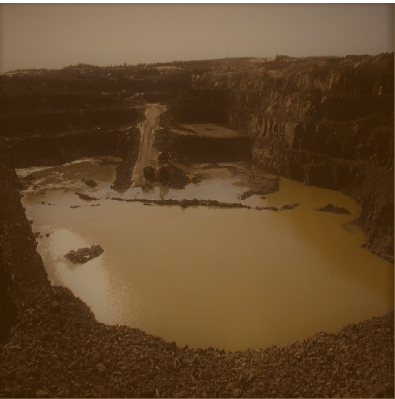
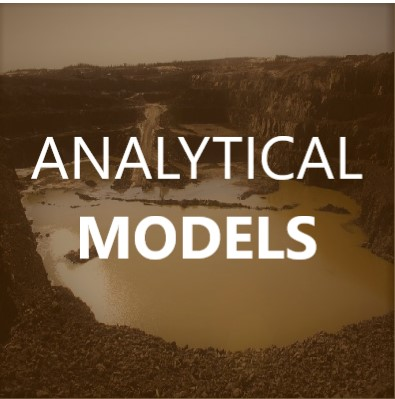
Added documentations

Changed region(s): [[0.0608, 0.3308, 0.9418, 0.4511], [0.1823, 0.5414, 0.8203, 0.6617]]

diff --git a/groundwater/templates/IndexDocumentation/complete_documentation.html b/groundwater/templates/IndexDocumentation/complete_documentation.html
@@ -1,0 +1,68 @@
+{% extends 'baseLayoutDocumentation.html' %}
+{% block title %}Complete Documentation{% endblock %}
+{% block content %}
+<h1 id="development-of-contaminated-plumes">Complete Documentation</h1>
+<p>This software has been created by using a micro-framework based on Python, called Flask and for the proper management of the dependencies in this project, a virtual environment has been created. The front end has been designed using HTML, CSS and bootstrap, the back-end is being handled by the open source management system, MySQL and the integration of the front-end and back-end is done through Python(3.6.8). The interactivity of all the components have been achieved by JavaScript.</p>
+<p><img src="static\complete_doc.png" alt="Framework for the site" style="zoom:80%;" /></p><br>
+<div>
+<strong>The structuring of the project is as follows :</strong>
+<ol>
+    <li>Virtual environment folder</li>
+    <li>Main folder (groundwater)</li>
+    <li>Three executable files</li>
+    <li>run.py(main file)</li>
+</ol>
+<p><img src="static\complete_doc_1.png" alt="Framework for the site" style="zoom:80%;"/></p><br>
+</div>
+<div>
+<strong>The main folder(groundwater) has a structuring as follows :</strong>
+<ol>
+    <li>Templates (consists of HTML codes)</li>
+    <li>Static (consists of CSS, images, JavaScript codes etc.)</li>
+    <li>Numerical model package(consists of code for the numerical model)</li>
+    <li>Other python files(consists of routes, initialisation and integration codes for the web platform)</li>
+</ol>
+<p><img src="static\complete_doc_2.png" alt="Framework for the site" style="zoom:80%;" /></p>
+</div>
+<div>
+<p>The structuring of the folders have been done according to the flask application structure. This ensures that all files are stored separately, according to their functions.</p>
+<strong>Some of the important libraries used in this project are :</strong>
+<ol>
+    <li>Pandas – for accessing the database in order to manipulate and read the data.</li>
+    <li>Plotly, Matplotlib, Seaborn – for generating graphs, these libraries are used for visualisation of the data.</li>
+    <li>SQLAlchemy – for abstraction of the database.</li>
+    <li>Sklearn, scikit-learn – for data mining and machine learning.</li>
+    <li>SciPy – scientific library for python.</li>
+    <li>FloPy – a package to create, run, and post-process MODFLOW based models.</li>
+</ol>
+</div>
+<p>Please note : The original database mentioned in this documentation refers to the database that is already existing in the software.</p>
+<p>For using this software, first make sure that you have an account. To make an account, you can click on register and enter the necessary details that are required. You can then login with your registered email id and password.</p>
+<p>There are 6 boxes that get displayed on the ‘Groundwater quality toolboxes’. The site database model, analytical model and empirical model are complete and can be used. The numerical model is still under development, however, it can be used. The optimization tool would be completed in the future.</p>
+
+<strong>You can begin by using the sites database model :</strong>
+<ol>
+    <li>Create your own database by either entering all parameters manually or upload a .csv file (you can download a sample csv file for checking the format to ensure that your file can be successfully uploaded).</li>
+    <li>You can also continue without creating your own database.</li>
+    <li>Navigate to ‘Analysis Visualisation’ and then, to ‘All plots’ to see the visualisations available.</li>
+    <li>Starting with the bar graph, you would be able to see that your database(in case you have created one) would be merged with the original database(already provided in the site).</li>
+    <li>Similarly, you can navigate to the boxplot, scatterplot and histogram to visualize different types of density curves and fits for important parameters like ‘Plume length’.</li>
+    <li>The statistical analysis page provides you with an overall description of the original database by giving the quartiles, counts, etc.</li>
+    <li>After using this toolbox, you can move onto the analytical and empirical models.</li>
+</ol>
+<strong>For the analytical and empirical model :</strong>
+<ol>
+    <li>Read the documentation for the equation that you want to use.</li>
+    <li>The single computation mode for each equation will require only one entry for each parameter.</li>
+    <li>The outputs for the single computation mode will be the ‘Maximum plume length’ and a graph displaying the plume lengths in the original database and one that is calculated with the user inputs.</li>
+    <li>The interactions for the graph can also be done via sliders, which have the most sensitive parameters.</li>
+    <li>By changing the values in the sliders, the displayed value for plume length as well as the entry on the graph changes, making it easier for the user to visualise their results.</li>
+    <li>The multiple computation mode for each equation allows multiple entries to be entered into the database. A separate table is created for each equation in the database.</li>
+    <li>For using this mode, the entries for the equation can be entered manually or can be uploaded via a .csv file.</li>
+    <li>For this purpose, please check the sample files for each parameter, to ensure that your file gets uploaded successfully.</li>
+    <li>After creating your own database, your entries are shown along with the original database on a graph, this helps to visualize and compare all entries.</li>
+    <li>If you wish to see only some of the entries from the original database, you can choose them from the dropdown.</li>
+</ol>
+<p>For the numerical model, enter all the values of the parameters to get a ‘Maximum plume length’ according to the values entered.</p>
+
+{% endblock %}

diff --git a/groundwater/templates/index.html b/groundwater/templates/index.html
@@ -129,19 +129,16 @@
                 <a href="{{ url_for('database')}}">
                     <div class="box">
                         <img src="/static/one.jpg" width="250"/>
-                        <div class="centered"><h2>SITE<br>DATABASE<br> and <br>MODEL INPUT</h2></div>
                     </div>
                 </a>
                 <a href="{{ url_for('analyticalModel')}}">
                     <div class="box">
                         <img src="/static/analyt.jpg" width="250"/>
-                        <div class="centered"><h2>ANALYTICAL<br>MODELS</h2></div>
                     </div>
                 </a>
                 <a href="{{ url_for('empiricalModel')}}">
                     <div class="box">
                         <img src="/static/semi.jpg" width="250"/>
-                        <div class="centered"><h2>EMPIRICAL<br>MODELS</h2></div>
                     </div>
                 </a>
             </div>
@@ -149,16 +146,13 @@
                 <a href="{{ url_for('numericalModel')}}">
                 <div class="box">
                     <img src="/static/num.jpg" width="250"/>
-                    <div class="centered"><h2>NUMERICAL<br>MODELS</h2></div>
                 </div>
                 </a>
                 <div class="box">
                     <img src="/static/two.jpg" width="250"/>
-                    <div class="centered"><h2>OPTIMIZATION<br>TOOL</h2></div>
                 </div>
                 <div class="box">
                     <img src="/static/three.jpg" width="250"/>
-                    <div class="centered"><h2>WATER<br> QUALITY <br>INDEX</h2></div>
                 </div>
             </div>
             <br><br>
@@ -195,7 +189,7 @@
                     <ol>
                         <li>Start with the Database Toolbox</li>
                         <li>Follow then to Analytical model Toolbox or Empirical model toolbox, and then</li>
-                        <li>Numerical model toolbox (not implemented yet).</li>
+                        <li>Numerical model toolbox (under development).</li>
                     </ol>
                     <p>The Decision Toolbox (not implemented yet) and the Other toolboxes do not require any work flow.
                         The User’s guide (not complete) will contain details on how to use the toolbox correctly with
@@ -205,8 +199,8 @@
                     <h2><a id="NOTE_16"></a>NOTE:</h2>
                     <p>The authors of this site and the organizations supporting the development are not in
                         any way responsible for the results obtained using the tools provide in the site.</p><br>
-                    <a href="#" class="tm-button tm-button-normal">User's guide </a>
-                    <a href="#" class="tm-button tm-button-normal">Complete Documentation</a>
+                    <a href="{{ url_for('user_guide') }}" class="tm-button-doc tm-button-normal">User's guide </a>
+                    <a href="{{ url_for('complete_documentation') }}" class="tm-button-doc tm-button-normal">Complete Documentation</a>
                 </div>
             </div>
 

diff --git a/groundwater/templates/IndexDocumentation/users_guide.html b/groundwater/templates/IndexDocumentation/users_guide.html
@@ -1,0 +1,32 @@
+{% extends 'baseLayoutDocumentation.html' %}
+{% block title %}User's Guide{% endblock %}
+{% block content %}
+<h1 id="user's-guide">User's Guide</h1>
+<br><br>
+<strong>You can begin by using the sites database model :</strong>
+<ol>
+    <li>Create your own database by either entering all parameters manually or upload a .csv file (you can download a sample csv file for checking the format to ensure that your file can be successfully uploaded).</li>
+    <li>You can also continue without creating your own database.</li>
+    <li>Navigate to ‘Analysis Visualisation’ and then, to ‘All plots’ to see the visualisations available.</li>
+    <li>Starting with the bar graph, you would be able to see that your database(in case you have created one) would be merged with the original database(already provided in the site).</li>
+    <li>Similarly, you can navigate to the boxplot, scatterplot and histogram to visualize different types of density curves and fits for important parameters like ‘Plume length’.</li>
+    <li>The statistical analysis page provides you with an overall description of the original database by giving the quartiles, counts, etc.</li>
+    <li>After using this toolbox, you can move onto the analytical and empirical models.</li>
+</ol>
+<p><img src="static\user_guide.png" alt="Toolbox" style="zoom:80%;" /></p>
+<strong>For the analytical and empirical model :</strong>
+<ol>
+    <li>Read the documentation for the equation that you want to use.</li>
+    <li>The single computation mode for each equation will require only one entry for each parameter.</li>
+    <li>The outputs for the single computation mode will be the ‘Maximum plume length’ and a graph displaying the plume lengths in the original database and one that is calculated with the user inputs.</li>
+    <li>The interactions for the graph can also be done via sliders, which have the most sensitive parameters.</li>
+    <li>By changing the values in the sliders, the displayed value for plume length as well as the entry on the graph changes, making it easier for the user to visualise their results.</li>
+    <li>The multiple computation mode for each equation allows multiple entries to be entered into the database. A separate table is created for each equation in the database.</li>
+    <li>For using this mode, the entries for the equation can be entered manually or can be uploaded via a .csv file.</li>
+    <li>For this purpose, please check the sample files for each parameter, to ensure that your file gets uploaded successfully.</li>
+    <li>After creating your own database, your entries are shown along with the original database on a graph, this helps to visualize and compare all entries.</li>
+    <li>If you wish to see only some of the entries from the original database, you can choose them from the dropdown.</li>
+</ol>
+<p>For the numerical model, enter all the values of the parameters to get a ‘Maximum plume length’ according to the values entered.</p>
+
+{% endblock %}

diff --git a/groundwater/static/css/templatemo-style.css b/groundwater/static/css/templatemo-style.css
@@ -167,6 +167,22 @@ body {
 	-webkit-transition: all 0.3s ease;
 	transition: all 0.3s ease;
 }
+.tm-button-doc,
+.tm-button-doc:focus {
+  background-color: #936;
+	border: none;
+	border-radius: 0;
+	color: #fff;
+	display: inline-block;
+	-webkit-transition: all 0.3s ease;
+	transition: all 0.3s ease;
+}
+.tm-button-doc:hover,
+.tm-button-doc.active {
+	background-color: #7B2852;
+	color: #EAD53D;
+	text-decoration: none;
+}
 
 .tm-button:hover,
 .tm-button.active {

diff --git a/groundwater/water.py b/groundwater/water.py
@@ -50,6 +50,16 @@ def about_plume():
     return render_template('IndexDocumentation/contaminant_plume.html')
 
 
+@app.route('/user_guide', methods=['GET', 'POST'])
+def user_guide():
+    return render_template('IndexDocumentation/users_guide.html')
+
+
+@app.route('/complete_documentation', methods=['GET', 'POST'])
+def complete_documentation():
+    return render_template('IndexDocumentation/complete_documentation.html')
+
+
 @app.route("/register", methods=['GET', 'POST'])
 def register():
     if current_user.is_authenticated:
